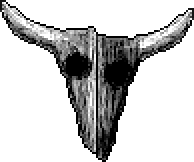
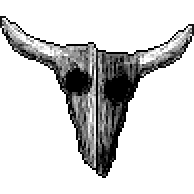
Laser skull part 1

Changed region(s): [[0.0, 0.0, 1.0, 0.4938], [0.3402, 0.4938, 0.6804, 1.0], [0.3711, 0.463, 0.4021, 0.4938]]

diff --git a/Content/NPCs/Bosses/InfiniteTerrorHead.cs b/Content/NPCs/Bosses/InfiniteTerrorHead.cs
@@ -36,13 +36,14 @@ namespace TerrorMod.Content.NPCs.Bosses
         int HeadProj => ModContent.ProjectileType<InfiniteTerrorHeadProj>();
 
         float attackDuration = 0;
-        int[] attackDurations = { 120, 480, 900, 1200, 600 };
+        int[] attackDurations = { 360, 480, 900, 1200, 600 };
         int[] attackDurations2 = { 900, 900, 720, 720, 900 };
         public Player player { get; private set; }
 
         public enum Attacks
         {
-            DashWithFollowers
+            DashWithFollowers,
+            LaserSkulls
         }
 
         public enum Attacks2
@@ -83,8 +84,8 @@ namespace TerrorMod.Content.NPCs.Bosses
         {
             NPC.boss = true;
             NPC.aiStyle = -1;
-            NPC.width = 194;
-            NPC.height = 162;
+            NPC.width = 97;
+            NPC.height = 97;
             NPC.Opacity = 1;
             NPC.lifeMax = 800000;
             NPC.defense = 40;
@@ -183,9 +184,9 @@ namespace TerrorMod.Content.NPCs.Bosses
         }
 
         float DashSpeed = 40;
-        const float DashWithFollower_Duration = 90;
-        const float DashWithFollower_ChargeTime = 60;
-        const float DashWithFollower_DashTime = 60;
+        const float DashWithFollower_Duration = 120;
+        const float DashWithFollower_ChargeTime = 90;
+        const float DashWithFollower_DashTime = 90;
         void DashWithFollowers()
         {
             switch (AttackTimer)
@@ -209,10 +210,10 @@ namespace TerrorMod.Content.NPCs.Bosses
                 case DashWithFollower_DashTime:
                     if (NotHost && Main.rand.NextBool(4))
                     {
-                        AttackTimer = 90;
+                        AttackTimer = DashWithFollower_Duration;
                     }
                     NPC.netUpdate = true;
-                    if (AttackTimer == 90) return;
+                    if (AttackTimer == DashWithFollower_Duration) return;
                     NPC.velocity = savedDirection * DashSpeed;
                     if (NotHost)
                     {
@@ -220,12 +221,12 @@ namespace TerrorMod.Content.NPCs.Bosses
                         {
                             Vector2 perpendicularDirection = savedDirection.RotatedBy(MathHelper.PiOver2);
                             Vector2 pos = NPC.Center + perpendicularDirection * i * 400;
-                            NewProj(pos, Vector2.Zero, HeadProj, ai0: savedDirection.ToRotation(), ai1: 60, ai2: DashSpeed);
+                            NewProj(pos, Vector2.Zero, HeadProj, ai0: savedDirection.ToRotation(), ai1: 30, ai2: DashSpeed);
                         }
                     }
                     break;
                 case 0:
-                    AttackTimer = 90;
+                    AttackTimer = DashWithFollower_Duration;
                     return;
             }
 
@@ -333,16 +334,16 @@ namespace TerrorMod.Content.NPCs.Bosses
         public override bool PreDraw(SpriteBatch spriteBatch, Vector2 screenPos, Color drawColor)
         {
             Texture2D texture = TextureAssets.Npc[Type].Value;
-            Rectangle drawRect = texture.Frame(1, Main.npcFrameCount[Type], 0, 0);
 
-            Vector2 drawOrigin = new Vector2(texture.Width * 0.5f, NPC.height * 0.5f);
+            Vector2 drawOrigin = new Vector2(texture.Width * 0.5f, texture.Height * 0.5f);
             for (int k = NPC.oldPos.Length - 1; k > 0; k--)
             {
-                Vector2 drawPos = NPC.oldPos[k] - Main.screenPosition + drawOrigin + new Vector2(0f, NPC.gfxOffY);
-                Color color = NPC.GetAlpha(drawColor) * ((NPC.oldPos.Length - k) / (float)NPC.oldPos.Length);
-                Main.EntitySpriteDraw(texture, drawPos, drawRect, color, NPC.rotation, drawOrigin, NPC.scale, SpriteEffects.None, 0);
+                Vector2 drawPos = NPC.oldPos[k] - Main.screenPosition;
+                Color color = NPC.GetAlpha(drawColor * 0.5f) * ((NPC.oldPos.Length - k) / (float)NPC.oldPos.Length);
+                Main.EntitySpriteDraw(texture, drawPos + drawOrigin / 2, null, color, NPC.rotation, drawOrigin, NPC.scale, SpriteEffects.None, 0);
             }
-            return true;
+            Main.EntitySpriteDraw(texture, NPC.Center - Main.screenPosition, null, Color.White, NPC.rotation, drawOrigin, NPC.scale, SpriteEffects.None, 0);
+            return false;
         }
 
         public override void PostDraw(SpriteBatch spriteBatch, Vector2 screenPos, Color drawColor)

diff --git a/Content/Projectiles/Hostile/LaserSkull.cs b/Content/Projectiles/Hostile/LaserSkull.cs
@@ -1,0 +1,94 @@
+using Microsoft.Xna.Framework;
+using Microsoft.Xna.Framework.Graphics;
+using MonoMod.Cil;
+using ReLogic.Content;
+using Terraria;
+using Terraria.Audio;
+using Terraria.GameContent;
+using Terraria.ID;
+using Terraria.ModLoader;
+using TerrorMod.Common.Utils;
+using TerrorMod.Common.Utils.Prim;
+
+namespace TerrorMod.Content.Projectiles.Hostile
+{
+    public class LaserSkull : ModProjectile
+    {
+        public override string Texture => "TerrorMod/Common/Assets/Textures/EmptyPixel";
+
+        string LeftSkullPath => "TerrorMod/Content/Projectiles/Hostile/InfiniteTerrorSkullLeft";
+        string RightSkullPath => "TerrorMod/Content/Projectiles/Hostile/InfiniteTerrorSkullRight";
+
+        static Asset<Texture2D> LeftSkull;
+        static Asset<Texture2D> RightSkull;
+        int AITimer = 0;
+
+        ref float WaitTime => ref Projectile.ai[0];
+        ref float MoveDistance => ref Projectile.ai[2];
+        ref float Rotation => ref Projectile.ai[1];
+
+        public override void SetStaticDefaults()
+        {
+            ProjectileID.Sets.TrailCacheLength[Projectile.type] = 15;
+            ProjectileID.Sets.TrailingMode[Projectile.type] = 2;
+            LeftSkull = ModContent.Request<Texture2D>(LeftSkullPath);
+            RightSkull = ModContent.Request<Texture2D>(RightSkullPath);
+        }
+
+        public override void SetDefaults()
+        {
+            Projectile.width = 97;
+            Projectile.height = 97;
+            Projectile.hostile = true;
+            Projectile.friendly = false;
+            Projectile.ignoreWater = true;
+            Projectile.tileCollide = false;
+            Projectile.timeLeft = 120;
+        }
+
+        float maxDistance = 50;
+        public override void AI()
+        {
+            if (AITimer == 0)
+            {
+                SoundEngine.PlaySound(SoundID.NPCDeath13, Projectile.Center);
+            }
+
+            if (AITimer > WaitTime)
+            {
+                if (MoveDistance < maxDistance)
+                {
+                    MoveDistance += (MoveDistance + 1) * 0.8f;
+                }
+                Projectile.Opacity = MathHelper.Lerp(Projectile.Opacity, 0, 1f / 10f);
+            }
+            Projectile.rotation = Rotation;
+            Projectile.velocity = Vector2.Zero;
+
+            AITimer++;
+        }
+
+        public override void OnKill(int timeLeft)
+        {
+
+        }
+
+        public override bool PreDraw(ref Color lightColor)
+        {
+            Texture2D leftTexture = LeftSkull.Value;
+            Texture2D rightTexture = RightSkull.Value;
+            Vector2 drawOrigin = leftTexture.Size() * 0.5f;
+            Vector2 direction = Vector2.UnitX.RotatedBy(Rotation);
+            Vector2 perpendicular = direction.RotatedBy(MathHelper.PiOver2);
+            Vector2 leftOffset = perpendicular * ((leftTexture.Height / 2) + MoveDistance);
+            Vector2 rightOffset = perpendicular * ((rightTexture.Height / 2) + MoveDistance);
+            Vector2 leftPos = Projectile.Center - leftOffset;
+            Vector2 rightPos = Projectile.Center + rightOffset;
+
+            Main.EntitySpriteDraw(leftTexture, leftPos - Main.screenPosition, null, Color.White * Projectile.Opacity, Projectile.rotation, drawOrigin, Projectile.scale, SpriteEffects.FlipHorizontally);
+            Main.EntitySpriteDraw(rightTexture, rightPos - Main.screenPosition, null, Color.White * Projectile.Opacity, Projectile.rotation, drawOrigin, Projectile.scale, SpriteEffects.FlipHorizontally);
+
+            return false;
+        }
+    }
+}

diff --git a/Content/Projectiles/Hostile/InfiniteTerrorHeadProj.cs b/Content/Projectiles/Hostile/InfiniteTerrorHeadProj.cs
@@ -27,15 +27,13 @@ namespace TerrorMod.Content.Projectiles.Hostile
 
         public override void SetDefaults()
         {
-            Projectile.width = 160;
-            Projectile.height = 160;
+            Projectile.width = 97;
+            Projectile.height = 97;
             Projectile.hostile = true;
             Projectile.friendly = false;
             Projectile.ignoreWater = true;
             Projectile.tileCollide = false;
             Projectile.timeLeft = 150;
-            DrawOffsetX = -30;
-            DrawOriginOffsetY = -16;
         }
 
         public override void AI()
@@ -70,14 +68,15 @@ namespace TerrorMod.Content.Projectiles.Hostile
         {
             Texture2D texture = TextureAssets.Projectile[Type].Value;
 
-            Vector2 drawOrigin = new Vector2(texture.Width * 0.5f + DrawOriginOffsetX, Projectile.height * 0.5f + DrawOriginOffsetY);
+            Vector2 drawOrigin = new Vector2(texture.Width * 0.5f, texture.Height * 0.5f);
             for (int k = Projectile.oldPos.Length - 1; k > 0; k--)
             {
-                Vector2 drawPos = Projectile.oldPos[k] - Main.screenPosition + drawOrigin + new Vector2(DrawOffsetX, 0);
+                Vector2 drawPos = Projectile.oldPos[k] - Main.screenPosition + new Vector2(DrawOffsetX, 0);
                 Color color = Projectile.GetAlpha(lightColor * 0.5f) * ((Projectile.oldPos.Length - k) / (float)Projectile.oldPos.Length);
-                Main.EntitySpriteDraw(texture, drawPos, null, color, Projectile.rotation, drawOrigin, Projectile.scale, SpriteEffects.None, 0);
+                Main.EntitySpriteDraw(texture, drawPos + drawOrigin / 2, null, color, Projectile.rotation, drawOrigin, Projectile.scale, SpriteEffects.None, 0);
             }
-            return true;
+            Main.EntitySpriteDraw(texture, Projectile.Center - Main.screenPosition, null, Color.White, Projectile.rotation, drawOrigin, Projectile.scale, SpriteEffects.None, 0);
+            return false;
         }
     }
 }
